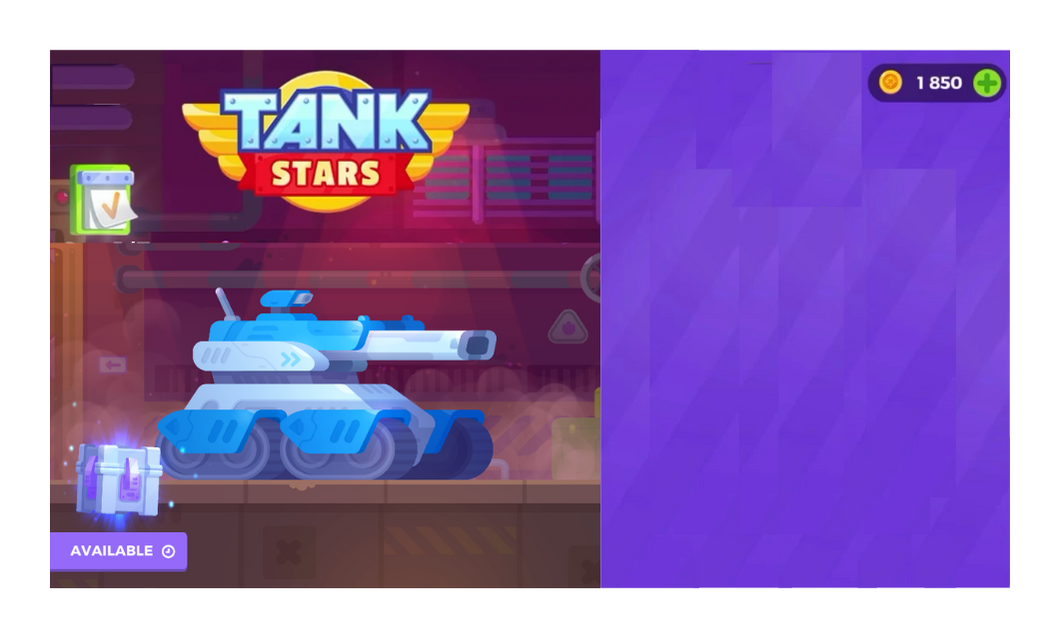
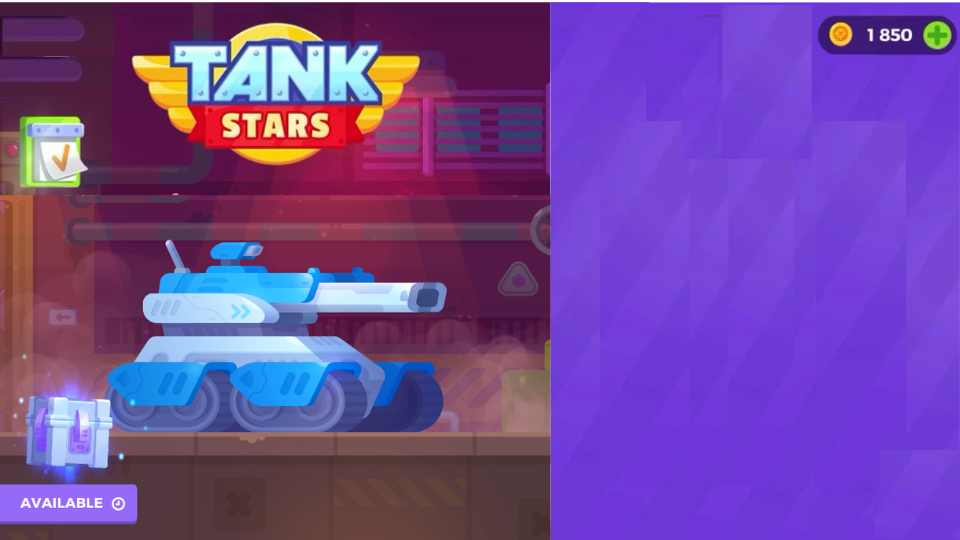
Fixed all the Screens, there are still few changes to be made and more assets to be added

diff --git a/core/src/com/mygdx/game/TankStars.java b/core/src/com/mygdx/game/TankStars.java
@@ -6,13 +6,15 @@ import com.badlogic.gdx.graphics.GL20;
 import com.badlogic.gdx.graphics.Texture;
 import com.badlogic.gdx.graphics.g2d.SpriteBatch;
 import com.badlogic.gdx.graphics.g2d.TextureRegion;
+import com.badlogic.gdx.scenes.scene2d.ui.ImageButton;
+import com.badlogic.gdx.scenes.scene2d.utils.TextureRegionDrawable;
 
 public class TankStars extends ApplicationAdapter {
 
 	SpriteBatch batch;
 
 //	Game Screen
-	Texture game_screen_image;
+	Texture game_screen_sprite;
 	TextureRegion gameScreen;
 	TextureRegion tenpercent;
 	TextureRegion fifteenpercent;
@@ -22,15 +24,50 @@ public class TankStars extends ApplicationAdapter {
 	TextureRegion hundredpercent;
 
 //	Load Screen
-	TextureRegion loadBar;
+	Texture load_screen_sprite;
+	TextureRegion loadScreen;
+	TextureRegion loadBar1;
+	TextureRegion loadBar2;
+	TextureRegion loadBar3;
+
+
+//	Start Screen
+
+	Texture startScreen_sprite;
+	TextureRegion startScreen;
+	TextureRegion startButton;
+	TextureRegion resumeButton;
+
+//	Home Screen
+	Texture homeScreen_sprite;
+	TextureRegion homeScreen;
+	TextureRegion computerButton;
+	TextureRegion playerButton;
+
+//	Saved Games
+	Texture savedGames_sprite;
+	TextureRegion savedGames;
+	TextureRegion savedGame;
+
+//	Pause Screen
+	Texture pauseScreen_sprite;
+	TextureRegion pauseScreen;
+	TextureRegion restartMenuButton;
+	TextureRegion resumeMenuButton;
+	TextureRegion exitMenuButton;
+
+//	Tank Change
+	Texture tankChange_sprite;
+	TextureRegion tankChange;
+	TextureRegion continueButton;
 
 	@Override
 	public void create () {
-
-//		Game Screen
 	batch = new SpriteBatch();
-	game_screen_image = new Texture("GameScreen/sprites.png");
-	gameScreen = new TextureRegion(game_screen_image, 0, 0, 960, 540);
+//		Game Screen
+
+	game_screen_sprite = new Texture("GameScreen/gameScreenSprite.png");
+	gameScreen = new TextureRegion(game_screen_sprite, 0, 0, 960, 540);
 
 	tenpercent = new TextureRegion(gameScreen, 408, 540, 100 , 100);
 	fifteenpercent = new TextureRegion(gameScreen, 0, 540, 100 , 100);
@@ -40,28 +77,96 @@ public class TankStars extends ApplicationAdapter {
 	hundredpercent = new TextureRegion(gameScreen, 204, 540, 100 , 100);
 
 //	Loading Screen
-	loadBar = new TextureRegion(new Texture("LoadScreen/gamescreen.png"), 0, 540, 391, 147);
+	load_screen_sprite = new Texture("LoadScreen/loadScreenSprite.png");
+	loadScreen = new TextureRegion(load_screen_sprite, 0, 102, 960, 540);
+	loadBar1 = new TextureRegion(load_screen_sprite, 0, 0, 300, 100);
+	loadBar2 = new TextureRegion(load_screen_sprite, 302, 0, 300, 100);
+	loadBar3 = new TextureRegion(load_screen_sprite, 604, 0, 300, 100);
 
+//	Start Screen
+	startScreen_sprite = new Texture("StartScreen/startScreenSprite.png");
+	startScreen = new TextureRegion(startScreen_sprite, 0, 0, 960, 540);
+	startButton = new TextureRegion(startScreen_sprite, 0, 541, 342, 180);
+	resumeButton = new TextureRegion(startScreen_sprite, 344, 541, 342, 179);
+
+//	Home Screen
+	homeScreen_sprite = new Texture("HomeScreen/homeScreenSprite.png");
+	homeScreen = new TextureRegion(homeScreen_sprite, 0, 0, 960, 540);
+	computerButton = new TextureRegion(homeScreen_sprite, 0, 541, 342, 180);
+	playerButton = new TextureRegion(homeScreen_sprite, 344, 541, 342, 179);
+
+//	Saved Games
+	savedGames_sprite = new Texture("SavedGames/savedGamesScreenSprite.png");
+	savedGames = new TextureRegion(savedGames_sprite, 0,0, 960, 540);
+	savedGame = new TextureRegion(savedGames_sprite, 0, 541, 433, 209);
+
+//  Pause Screen
+	pauseScreen_sprite = new Texture("PauseScreen/pauseScreenSprite.png");
+	pauseScreen = new TextureRegion(pauseScreen_sprite, 0,0, 960, 540);
+	restartMenuButton = new TextureRegion(pauseScreen_sprite, 157, 540, 154, 155);
+	resumeMenuButton = new TextureRegion(pauseScreen_sprite, 314, 540, 154, 155);
+	exitMenuButton = new TextureRegion(pauseScreen_sprite, 0, 540, 154, 155);
+
+//	Tank Change
+	tankChange_sprite = new Texture("TankChange/tankChangeSprite.png");
+	tankChange = new TextureRegion(tankChange_sprite, 0, 0, 960, 540);
+	continueButton = new TextureRegion(tankChange_sprite, 0, 542, 342, 180);
 
 	}
+
+
 
 	@Override
 	public void render () {
 		Gdx.gl.glClearColor(1, 0, 0, 1);
 		Gdx.gl.glClear(GL20.GL_COLOR_BUFFER_BIT);
+
 		batch.begin();
+
 //		Game Screen
 		batch.draw(gameScreen, 0, 0);
 
-		batch.draw(tenpercent, gameScreen.getRegionWidth() - 100, 0);
-		batch.draw(fifteenpercent, gameScreen.getRegionWidth() - 100, 0);
-		batch.draw(twentypercent, gameScreen.getRegionWidth() - 100, 0);
-		batch.draw(fiftypercent, gameScreen.getRegionWidth() - 100, 0);
-		batch.draw(seventypercent, gameScreen.getRegionWidth() - 100, 0);
-		batch.draw(hundredpercent, gameScreen.getRegionWidth() - 100, 0);
+//		Remove them one by one
+		batch.draw(tenpercent, 841, 22);
+		batch.draw(fifteenpercent, 841, 22);
+		batch.draw(twentypercent, 841, 22);
+		batch.draw(fiftypercent, 841, 22);
+		batch.draw(seventypercent, 841, 22);
+		batch.draw(hundredpercent, 841, 22);
 
 //		Loading Screen
-//		batch.draw(loadBar, 0, 0);
+		batch.draw(loadScreen, 0, 0);
+		batch.draw(loadBar1, 325, -5);
+		batch.draw(loadBar2, 325, -5);
+		batch.draw(loadBar3, 325, -5);
+
+//		Start Screen
+		batch.draw(startScreen, 0, 0);
+		batch.draw(startButton, (int)(startScreen.getRegionWidth()/(1.6)), (int)(startScreen.getRegionHeight()/2));
+		batch.draw(resumeButton, (int)(startScreen.getRegionWidth()/(1.6)), (int)(startScreen.getRegionHeight()/5));
+
+//		Home Screen
+		batch.draw(homeScreen, 0, 0);
+		batch.draw(computerButton, 595,285);
+		batch.draw(playerButton, 595, 120);
+
+//		Saved Games
+		batch.draw(savedGames, 0, 0);
+		batch.draw(savedGame, 550, 285);
+		batch.draw(savedGame, 550, 175);
+		batch.draw(savedGame, 550, 65);
+
+
+//		Pause Screen
+		batch.draw(pauseScreen, 0 ,0);
+		batch.draw(resumeMenuButton, 340, 30);
+		batch.draw(restartMenuButton, 405, 30);
+		batch.draw(exitMenuButton, 470, 30);
+
+//		Tank Change
+		batch.draw(tankChange, 0, 0);
+		batch.draw(tankChange, 551, 0);
+		batch.draw(continueButton, 340, -22);
 
 		batch.end();
 
@@ -70,7 +175,6 @@ public class TankStars extends ApplicationAdapter {
 	@Override
 	public void dispose () {
 		batch.dispose();
-		game_screen_image.dispose();
 	}
 
 }
